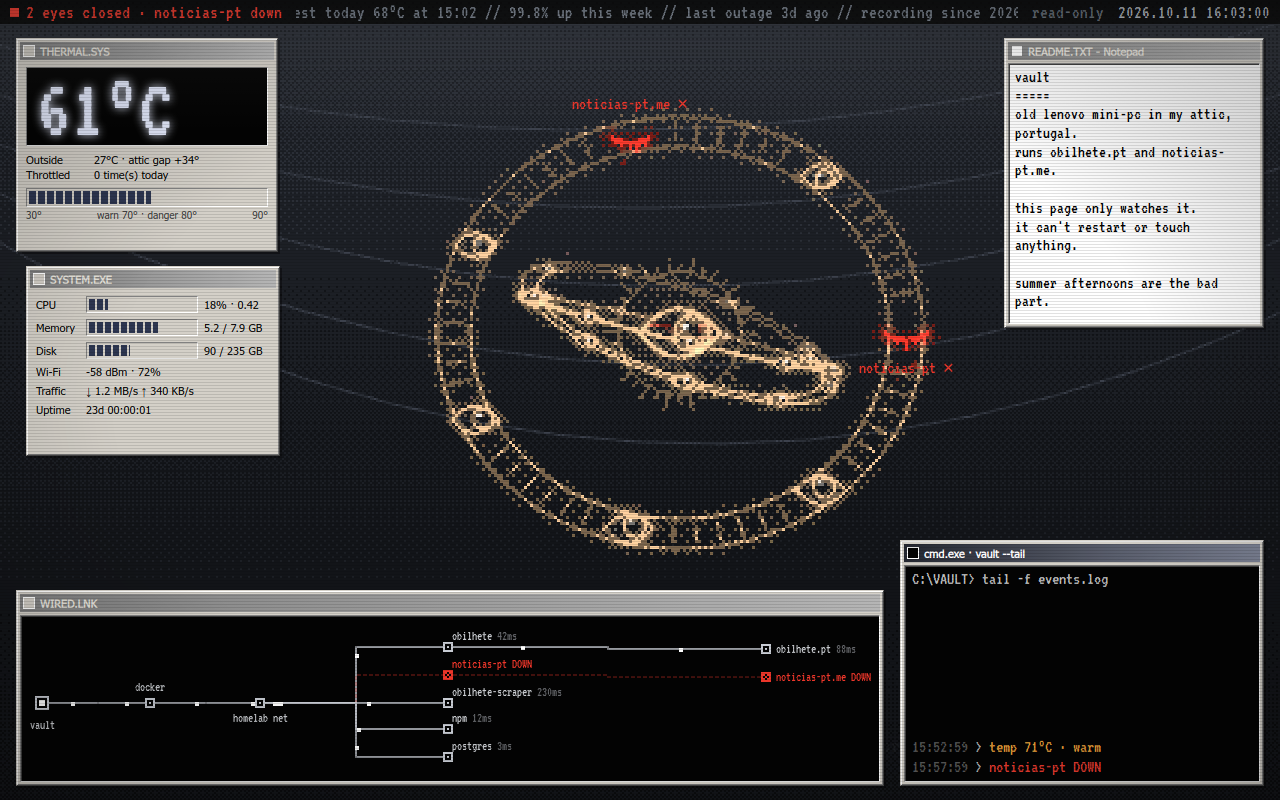
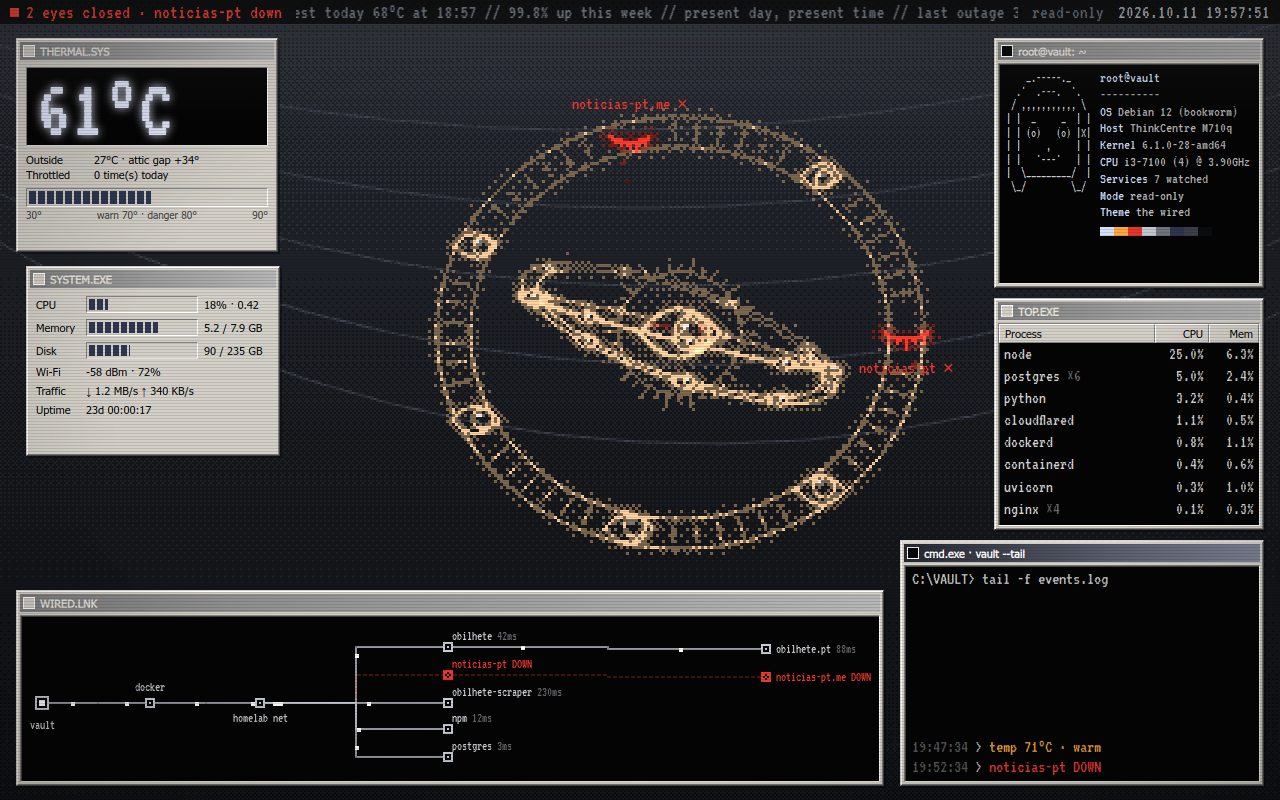
Replace README.TXT with a neofetch panel and TOP.EXE; lain lines in the ticker

diff --git a/tests/web/dashboard.spec.js b/tests/web/dashboard.spec.js
@@ -1,8 +1,10 @@
 const { test, expect } = require('@playwright/test');
 const { config, events, scenarios } = require('./scenarios');
 
-async function open(page, liveData, { failLive = () => false } = {}) {
-  await page.route('**/api/config', r => r.fulfill({ json: config }));
+const withoutSystem = { ...config, system: { os: null, host: null, kernel: null, cpu: null } };
+
+async function open(page, liveData, { failLive = () => false, cfg = config } = {}) {
+  await page.route('**/api/config', r => r.fulfill({ json: cfg }));
   await page.route('**/api/events**', r => r.fulfill({ json: new URL(r.request().url()).searchParams.has('after') ? [] : events }));
   await page.route('**/api/live', r => failLive() ? r.abort() : r.fulfill({ json: liveData }));
   await page.goto('/');
@@ -39,8 +41,9 @@ test('overheating: burning status and red LCD', async ({ page }) => {
 test('sensors missing: n/a everywhere, page keeps working', async ({ page }) => {
   const errors = [];
   page.on('pageerror', e => errors.push(e.message));
-  await open(page, scenarios.sensors);
-  for (const id of ['#lcd', '#outside', '#throttled', '#cpu-text', '#mem-text', '#disk-text', '#wifi-text', '#net-text', '#uptime'])
+  await open(page, scenarios.sensors, { cfg: withoutSystem });
+  for (const id of ['#lcd', '#outside', '#throttled', '#cpu-text', '#mem-text', '#disk-text', '#wifi-text', '#net-text', '#uptime',
+                    '#nf-os', '#nf-host', '#nf-kernel', '#nf-cpu', '#top-rows'])
     await expect(page.locator(id)).toHaveText('n/a');
   await expect(page.locator('#status-text')).toHaveText('all systems operational');
   expect(errors).toEqual([]);
@@ -82,10 +85,42 @@ test('layout: no window covers the wheel or any label position', async ({ page }
   expect(result.outside).toBe(0);
 });
 
-test('readme text fits its window', async ({ page }) => {
+test('readme window is gone', async ({ page }) => {
   await open(page, scenarios.healthy);
-  const fits = await page.locator('#readme').evaluate(el => el.scrollHeight <= el.clientHeight);
+  await expect(page.locator('[data-win=readme]')).toHaveCount(0);
+});
+
+test('neofetch panel: identity, no repeated live numbers, every line fits', async ({ page }) => {
+  await open(page, scenarios.healthy);
+  await expect(page.locator('#nf-title')).toHaveText('root@vault');
+  await expect(page.locator('#nf-os')).toHaveText('Debian 12 (bookworm)');
+  await expect(page.locator('#nf-host')).toHaveText('ThinkCentre M710q');
+  await expect(page.locator('#nf-kernel')).toHaveText('6.1.0-28-amd64');
+  await expect(page.locator('#nf-cpu')).toHaveText('i3-7100 (4) @ 3.90GHz');
+  await expect(page.locator('#nf-services')).toHaveText('7 watched');
+  await expect(page.locator('#nf-art')).toContainText('X');
+  const overflow = await page.locator('[data-win=neofetch] .nf-line, #nf-art').evaluateAll(
+    els => els.filter(el => el.scrollWidth > el.clientWidth + 1).map(el => el.textContent));
+  expect(overflow).toEqual([]);
+  const fitsHeight = await page.locator('[data-win=neofetch] .sunken').evaluate(el => el.scrollHeight <= el.clientHeight);
+  expect(fitsHeight).toBe(true);
+});
+
+test('TOP.EXE lists the top processes', async ({ page }) => {
+  await open(page, scenarios.healthy);
+  const rows = page.locator('#top-rows > div');
+  await expect(rows).toHaveCount(8);
+  await expect(rows.nth(0)).toHaveText(/node\s*25\.0%\s*6\.3%/);
+  await expect(rows.nth(1)).toHaveText(/postgres\s*×6\s*5\.0%\s*2\.4%/);
+  const fits = await page.locator('#top-rows').evaluate(el => el.scrollHeight <= el.clientHeight);
   expect(fits).toBe(true);
+});
+
+test('ticker adds process count and lain lines', async ({ page }) => {
+  await open(page, scenarios.healthy);
+  await expect(page.locator('#marquee')).toHaveAttribute('text', /204 processes/);
+  await expect(page.locator('#marquee')).toHaveAttribute('text', /present day, present time/);
+  await expect(page.locator('#marquee')).toHaveAttribute('text', /close the world, open the next/);
 });
 
 for (const [w, h] of [[1280, 800], [1920, 1080], [1366, 768], [390, 844]]) {

diff --git a/web/index.html b/web/index.html
@@ -40,7 +40,22 @@
   .system-body { flex: 1; padding: 8px 6px 4px; display: grid; grid-template-columns: 44px minmax(0, 1fr) 66px;
     gap: 6px; align-content: start; align-items: center; }
   .span2 { grid-column: span 2; }
-  #readme { background: #fff; padding: 4px 6px; font-size: 17px; line-height: 1.1; white-space: pre-wrap; overflow: hidden; }
+  .term { background: #000; color: #c0c0c0; }
+  .nf-body { padding: 6px 7px; display: flex; gap: 9px; overflow: hidden; }
+  #nf-art { margin: 2px 0 0; font-size: 13px; line-height: 1.05; color: #c8ccd4; flex: none; overflow: hidden; }
+  .nf-info { flex: 1; min-width: 0; font-size: 15px; line-height: 1.12; }
+  .nf-line { white-space: nowrap; overflow: hidden; text-overflow: ellipsis; }
+  .nf-line b { font-weight: normal; color: #d6e2ff; }
+  #nf-title { color: #d6e2ff; }
+  .nf-palette { display: flex; gap: 0; margin-top: 6px; }
+  .nf-palette span { width: 14px; height: 9px; }
+  .list { background: #000; display: flex; flex-direction: column; }
+  .list-row { display: grid; grid-template-columns: minmax(0, 1fr) 54px 50px; align-items: center; }
+  .list-head span { padding: 2px 5px; background: #d4d0c8; border: 1px solid; border-color: #fff #808080 #808080 #fff; }
+  #top-rows { flex: 1; min-height: 0; overflow: hidden; font-size: 17px; line-height: 1.3; color: #d0d0d0; }
+  #top-rows span { padding: 0 5px; white-space: nowrap; overflow: hidden; }
+  .num { text-align: right; }
+  .dim { opacity: .5; }
   .term-body { background: #000; padding: 4px 7px; display: flex; flex-direction: column; font-size: 18px;
     line-height: 1.08; color: #c0c0c0; }
 </style>
@@ -88,9 +103,39 @@
     </div>
   </div>
 
-  <div class="win" data-win="readme" style="left:1004px;top:38px;width:260px;height:290px">
-    <div class="title"><span class="ico paper"></span><span>README.TXT - Notepad</span></div>
-    <div id="readme" class="sunken vt"></div>
+  <div class="win" data-win="neofetch" style="left:994px;top:38px;width:270px;height:250px">
+    <div class="title"><span class="ico term"></span><span>root@vault: ~</span></div>
+    <div class="sunken term nf-body vt">
+      <pre id="nf-art" class="vt">    _.-----._
+  .'  .---.  '.
+ / ,,,,,,,,,,, \
+| |  _     _  | |
+| | (o)   (o) |X|
+| |     ,     | |
+| |   '---'   | |
+|  \_________/  |
+ \_/         \_/</pre>
+      <div class="nf-info">
+        <div class="nf-line" id="nf-title">root@vault</div>
+        <div class="nf-line">----------</div>
+        <div class="nf-line"><b>OS</b> <span id="nf-os">n/a</span></div>
+        <div class="nf-line"><b>Host</b> <span id="nf-host">n/a</span></div>
+        <div class="nf-line"><b>Kernel</b> <span id="nf-kernel">n/a</span></div>
+        <div class="nf-line"><b>CPU</b> <span id="nf-cpu">n/a</span></div>
+        <div class="nf-line"><b>Services</b> <span id="nf-services">n/a</span></div>
+        <div class="nf-line"><b>Mode</b> read-only</div>
+        <div class="nf-line"><b>Theme</b> the wired</div>
+        <div class="nf-palette"><span style="background:#d6e2ff"></span><span style="background:#ffaa3e"></span><span style="background:#ec3428"></span><span style="background:#c8ccd4"></span><span style="background:#6f7782"></span><span style="background:#2c3550"></span><span style="background:#3a3f4a"></span><span style="background:#08090b"></span></div>
+      </div>
+    </div>
+  </div>
+
+  <div class="win" data-win="top" style="left:994px;top:298px;width:270px;height:232px">
+    <div class="title"><span class="ico"></span><span>TOP.EXE</span></div>
+    <div class="sunken list">
+      <div class="list-row list-head" style="flex:none"><span>Process</span><span class="num">CPU</span><span class="num">Mem</span></div>
+      <div id="top-rows" class="vt">n/a</div>
+    </div>
   </div>
 
   <div class="win" data-win="cmd" style="left:900px;top:540px;width:364px;height:246px">

diff --git a/web/app.js b/web/app.js
@@ -1,7 +1,9 @@
 (() => {
   const STAGE_W = 1280, STAGE_H = 800;
   const $ = id => document.getElementById(id);
-  const S = { cfg: null, lastEventId: null, fails: 0, lastSeen: null, marquee: '' };
+  const S = { cfg: null, lastEventId: null, fails: 0, lastSeen: null, marquee: '', marqueeAt: 0 };
+  const LAIN = ['present day, present time', "no matter where you go, everyone's connected", 'close the world, open the next'];
+  const MARQUEE_MIN_MS = 60000; // rebuilding the marquee makes it jump; live counts change every poll
 
   // ---------- formatting ----------
   const na = v => v == null;
@@ -58,9 +60,15 @@
     if (t.last_outage) items.push(`last outage ${ago(live.ts - t.last_outage)} ago`);
     else if (t.recording_since) items.push('no outages recorded');
     items.push(t.recording_since ? `recording since ${day(t.recording_since)}` : 'recording starts in a few minutes');
+    if (!na(live.procs)) items.push(`${live.procs} processes`);
     items.push(`${services.length} eyes watching`);
-    const text = items.join('   //   ');
-    if (text !== S.marquee) { S.marquee = text; $('marquee').setAttribute('text', text); }
+    const mixed = [];  // a lain line after every other fact
+    items.forEach((item, i) => { mixed.push(item); if (i % 2 === 1 && LAIN[(i - 1) / 2]) mixed.push(LAIN[(i - 1) / 2]); });
+    LAIN.forEach(l => { if (!mixed.includes(l)) mixed.push(l); });
+    const text = mixed.join('   //   '), now = Date.now();
+    if (text !== S.marquee && (!S.marquee || now - S.marqueeAt >= MARQUEE_MIN_MS)) {
+      S.marquee = text; S.marqueeAt = now; $('marquee').setAttribute('text', text);
+    }
   }
 
   function renderThermal(live) {
@@ -89,6 +97,29 @@
     if (na(live.boot_time)) up.removeAttribute('boot'); else up.setAttribute('boot', String(live.boot_time));
   }
 
+  function renderTop(live) {
+    const box = $('top-rows');
+    if (!live.top) { if (box.textContent !== 'n/a') box.textContent = 'n/a'; return; }
+    box.replaceChildren(...live.top.map(p => {
+      const row = document.createElement('div'), name = document.createElement('span');
+      row.className = 'list-row';
+      name.textContent = p.name;
+      if (p.count > 1) { const n = document.createElement('span'); n.className = 'dim'; n.textContent = ` ×${p.count}`; n.style.padding = '0'; name.append(n); }
+      const cpu = document.createElement('span'), mem = document.createElement('span');
+      cpu.className = mem.className = 'num';
+      cpu.textContent = p.cpu.toFixed(1) + '%'; mem.textContent = p.mem.toFixed(1) + '%';
+      row.append(name, cpu, mem);
+      return row;
+    }));
+  }
+
+  function renderNeofetch() {
+    const sys = S.cfg.system || {};
+    setText('nf-title', `root@${S.cfg.host}`);
+    for (const key of ['os', 'host', 'kernel', 'cpu']) setText('nf-' + key, sys[key] || 'n/a');
+    setText('nf-services', `${S.cfg.services.length} watched`);
+  }
+
   function renderVisuals(live, services) {
     const angel = $('angel'), wired = $('wired');
     angel.data = { services };
@@ -104,6 +135,7 @@
     renderMarquee(live, services);
     renderThermal(live);
     renderSystem(live);
+    renderTop(live);
     renderVisuals(live, services);
   }
 
@@ -146,7 +178,7 @@
       }
     }
     window.vaultFx.setTimezone(S.cfg.tz);
-    setText('readme', S.cfg.readme);
+    renderNeofetch();
     setText('scale-mid', `warn ${S.cfg.thresholds.warn}° · danger ${S.cfg.thresholds.danger}°`);
     poll();
   }

diff --git a/tests/web/scenarios.js b/tests/web/scenarios.js
@@ -6,10 +6,14 @@ const config = {
   host: 'vault', network: 'homelab', poll_ms: 400, tz: 'Europe/Lisbon',
   thresholds: { warn: 70, danger: 80 },
   services: IDS.map(id => ({ id, kind: PARENT[id] ? 'site' : 'container', parent: PARENT[id] || null })),
-  readme: 'vault\n=====\nold lenovo mini-pc in my attic, portugal.\nruns obilhete.pt and noticias-pt.me.\n\nthis page only watches it.\nit can\'t restart or touch anything.\n\nsummer afternoons are the bad part.',
+  system: { os: 'Debian 12 (bookworm)', host: 'ThinkCentre M710q', kernel: '6.1.0-28-amd64', cpu: 'i3-7100 (4) @ 3.90GHz' },
 };
 
 const now = Math.floor(Date.now() / 1000);
+
+const TOP = [['node', 1, 25.0, 6.3], ['postgres', 6, 5.0, 2.4], ['python', 1, 3.2, 0.4], ['cloudflared', 1, 1.1, 0.5],
+  ['dockerd', 1, 0.8, 1.1], ['containerd', 1, 0.4, 0.6], ['uvicorn', 1, 0.3, 1.0], ['nginx', 4, 0.1, 0.3]]
+  .map(([name, count, cpu, mem]) => ({ name, count, cpu, mem }));
 
 function live({ temp = 52, outside = 24, cpu = 12, down = [], throttle = 0, nulls = false } = {}) {
   return {
@@ -18,6 +22,7 @@ function live({ temp = 52, outside = 24, cpu = 12, down = [], throttle = 0, null
     mem_mb: nulls ? null : [5300, 8090], disk_gb: nulls ? null : [90.1, 235.0],
     boot_time: nulls ? null : now - 23 * 86400, wifi: nulls ? null : { dbm: -58, quality: 72 },
     net: nulls ? null : { rx_bps: 1258291, tx_bps: 348160 },
+    top: nulls ? null : TOP, procs: nulls ? null : 204,
     services: IDS.map((id, i) => down.includes(id)
       ? { id, up: false, ms: null, status: '502' } : { id, up: true, ms: MS[i], status: '200' }),
     ticker: { hottest_today: { c: 68, at: now - 3600 }, availability_7d: 99.8, last_outage: now - 3 * 86400, recording_since: now - 9 * 86400 },

diff --git a/README.md b/README.md
@@ -21,7 +21,8 @@ cp .env.example .env              # set WIFI_IFACE, optionally LATITUDE/LONGITUD
 cp vault.example.json vault.json  # list your services
 docker build -t vault-dashboard .
 docker run -d --name vault-dashboard --env-file .env \
-  -v /proc:/host/proc:ro -v "$PWD/data:/data" -v "$PWD/vault.json:/config/vault.json:ro" \
+  -v /proc:/host/proc:ro -v /etc/os-release:/host/os-release:ro \
+  -v "$PWD/data:/data" -v "$PWD/vault.json:/config/vault.json:ro" \
   --network <your-docker-network> -p 8080:8080 vault-dashboard
 ```
 
